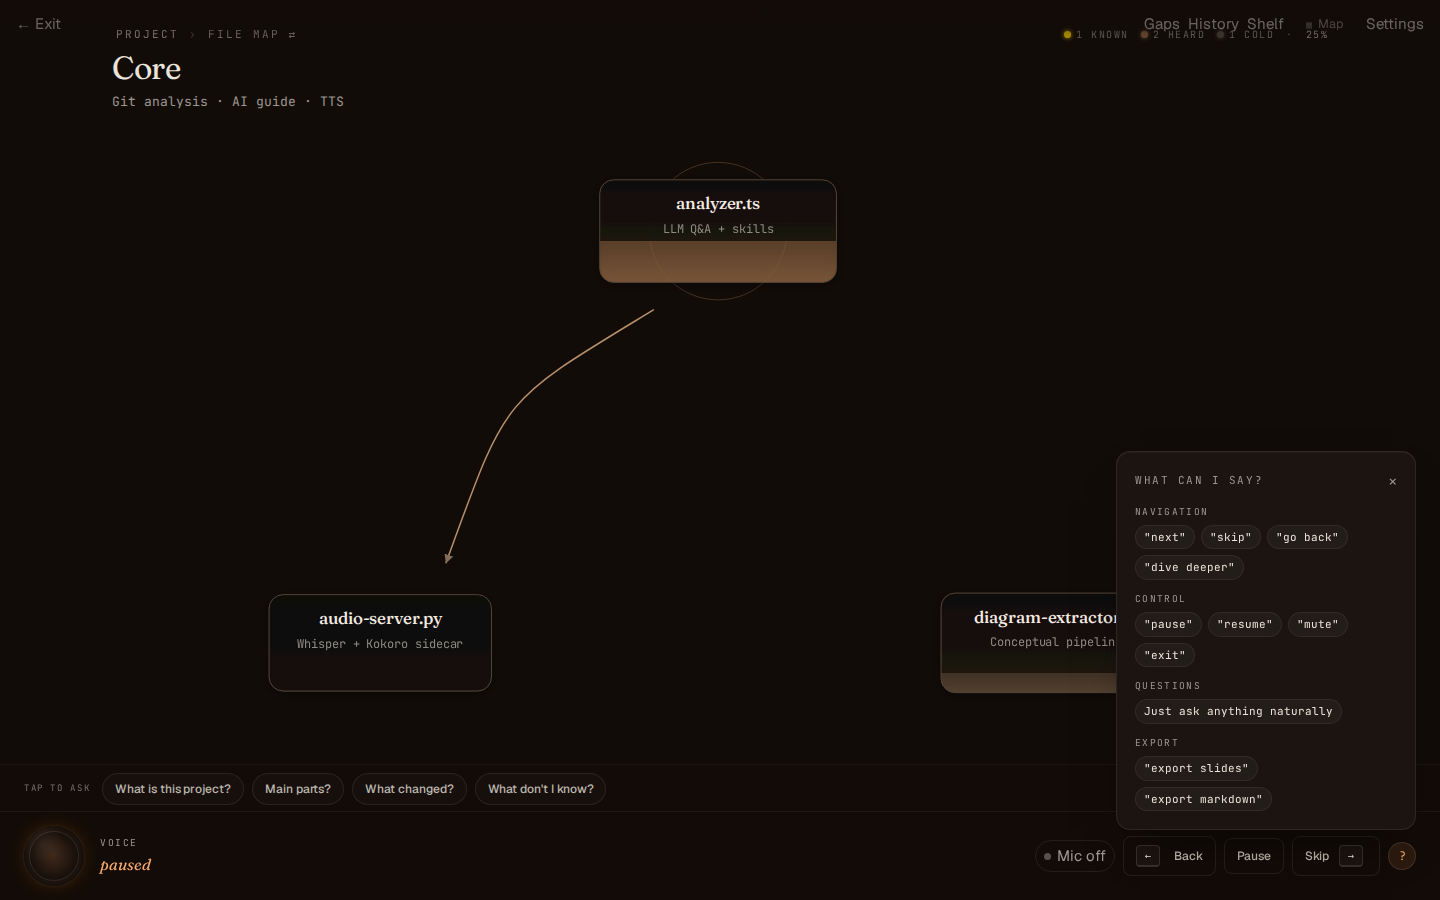
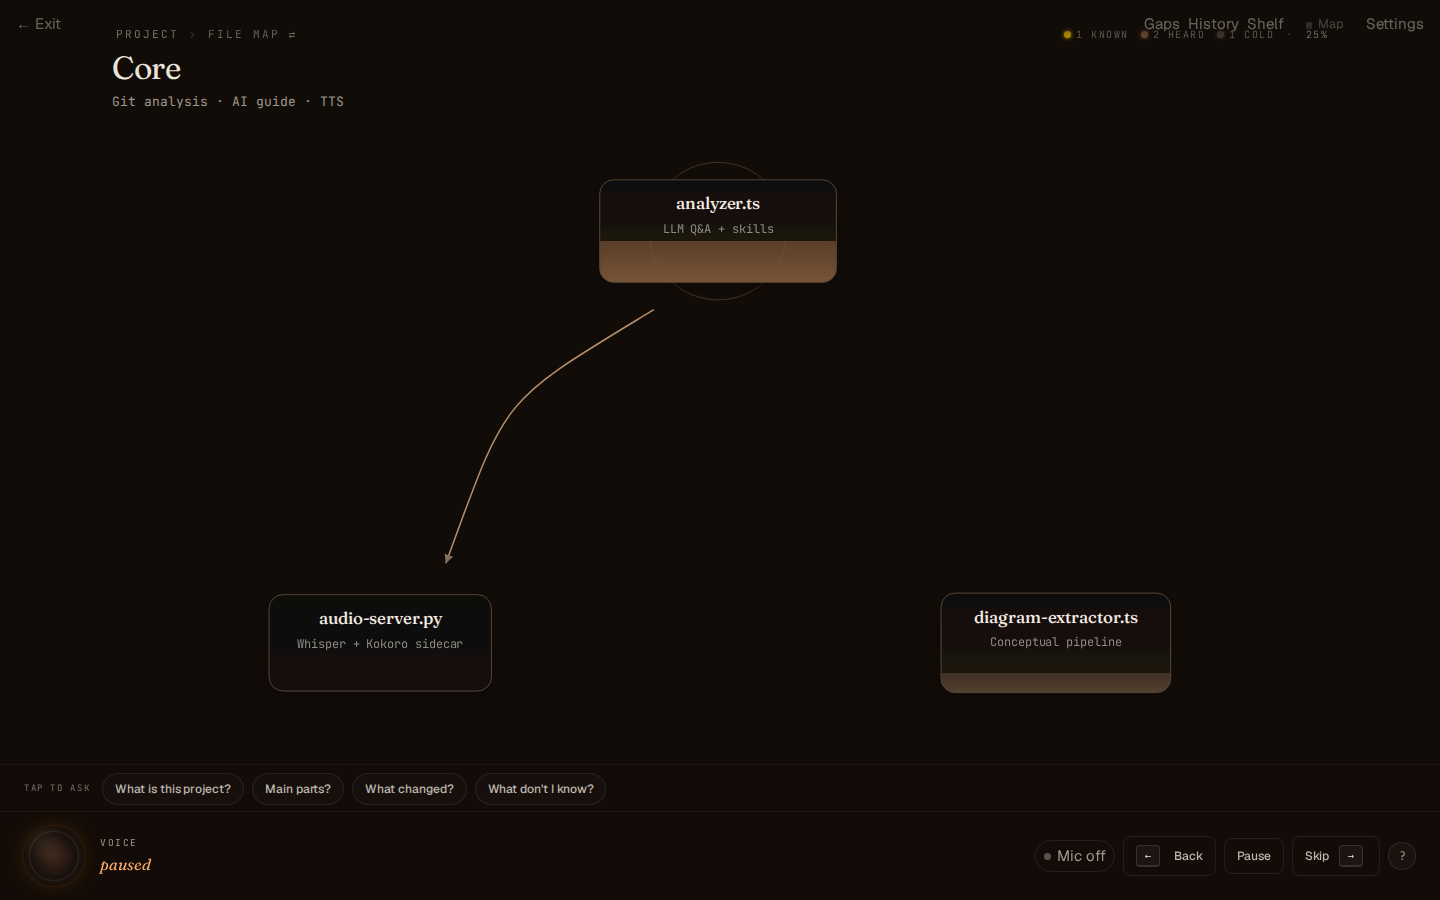
H5: remove help-popover auto-open (Blocker) + flush stale baselines
The "?" voice-help popover auto-opened on first load and obscured the
diagram — a real first-run Blocker (design-review) AND the source of
scene non-determinism. Removed the auto-open entirely; the always-
visible "?" button is the discovery affordance (cleaner UX, standard
pattern). Removed the now-dead localStorage seed from scene registry.

Also flushed stale Vite HMR (the long-lived dev server was serving
pre-fix Room.tsx — the version string the prior commit removed was
still showing). Baselines regenerated against a fresh server and now
reflect true committed code. typecheck 4/4, scenes 21/21.

Changed region(s): [[0.75, 0.56, 0.9375, 0.8089], [0.7812, 0.84, 0.875, 0.9022], [0.9062, 0.6844, 0.9375, 0.7156]]

diff --git a/packages/frontend/src/components/room/VoiceHelp.tsx b/packages/frontend/src/components/room/VoiceHelp.tsx
@@ -1,7 +1,5 @@
-import { useState, useEffect } from 'react';
+import { useState } from 'react';
 import { motion, AnimatePresence } from 'framer-motion';
-
-const STORAGE_KEY = 'voice_help_shown';
 
 const HELP_GROUPS = [
   { label: 'Navigation', commands: ['"next"', '"skip"', '"go back"', '"dive deeper"'] },
@@ -11,14 +9,11 @@ const HELP_GROUPS = [
 ];
 
 export function VoiceHelp() {
+  // No auto-open: the always-visible "?" button IS the discovery
+  // affordance. Auto-popping the panel over the diagram on first
+  // load was a real first-run Blocker (it obscured primary content)
+  // and made scene screenshots non-deterministic.
   const [visible, setVisible] = useState(false);
-
-  useEffect(() => {
-    if (!localStorage.getItem(STORAGE_KEY)) {
-      setVisible(true);
-      localStorage.setItem(STORAGE_KEY, '1');
-    }
-  }, []);
 
   return (
     <div className="relative">

diff --git a/packages/frontend/src/scenes/registry.ts b/packages/frontend/src/scenes/registry.ts
@@ -40,9 +40,6 @@ function basePayload(): DiagramPayload {
 }
 
 function seedBase(payload: DiagramPayload = basePayload()) {
-  // Suppress one-time onboarding nudges so scenes capture the actual
-  // skill state, not the first-run help popover / coachmarks.
-  try { localStorage.setItem('voice_help_shown', '1'); } catch { /* ssr */ }
   useSessionStore.setState({
     state: { phase: 'OVERVIEW' },
     activeRepoPath: '/scene/tetherline',
